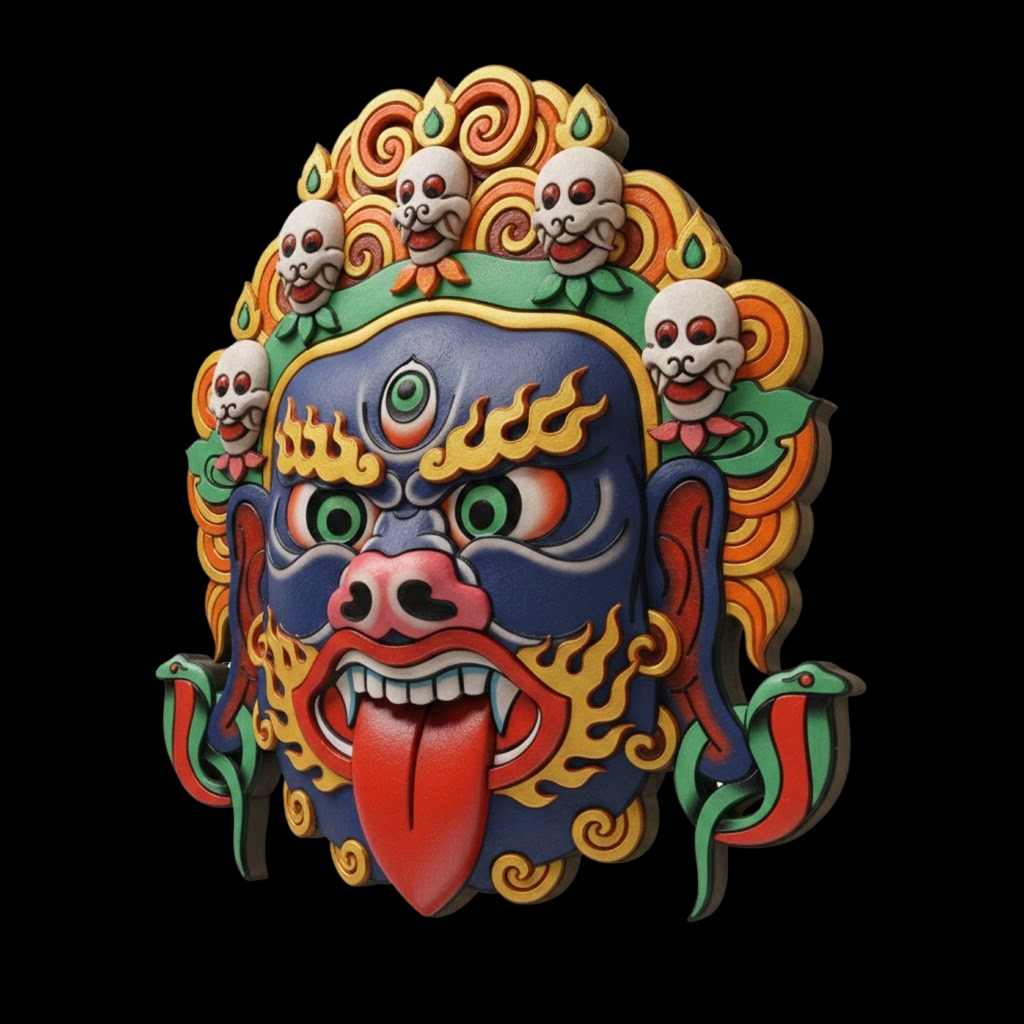
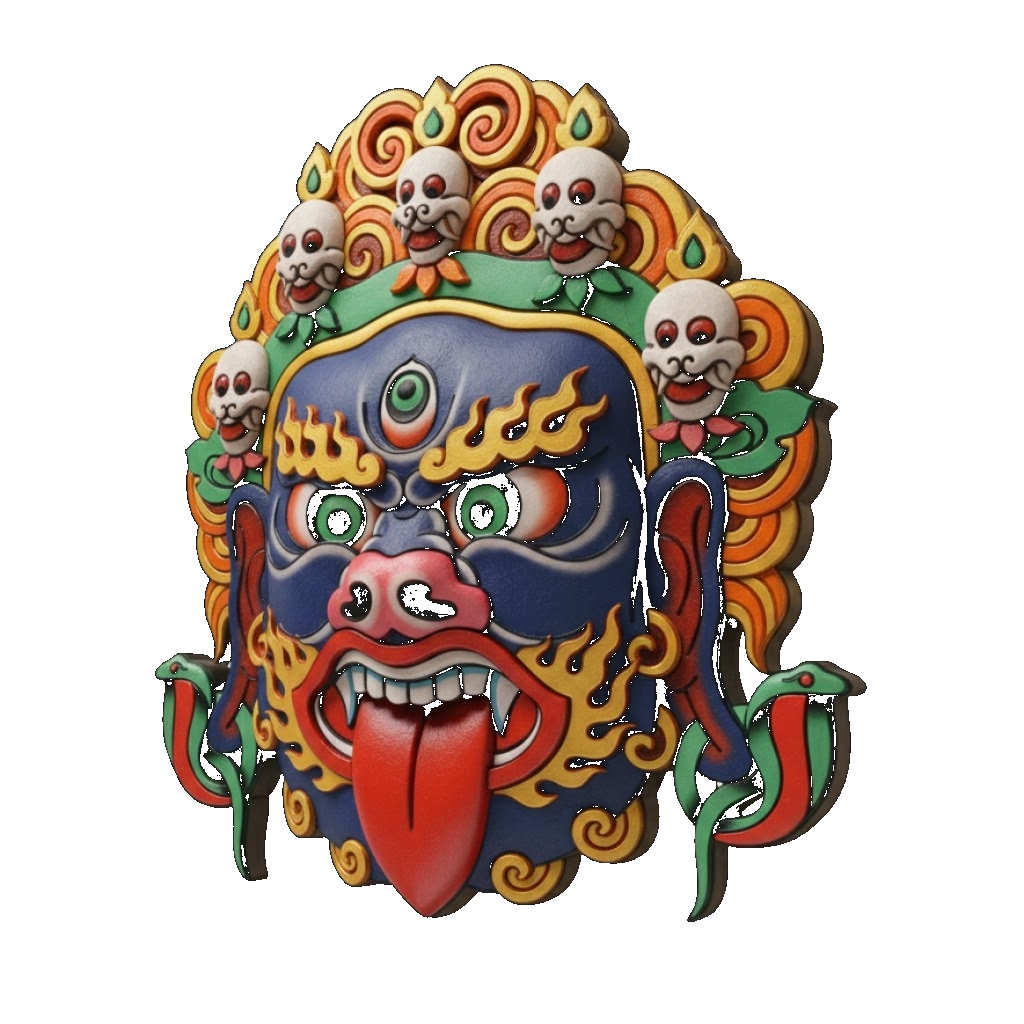
Replace 2 assets with transparent background and switch lightbox to 3D coverflow

diff --git a/js/ai-assets.js b/js/ai-assets.js
@@ -246,23 +246,17 @@ function initInfiniteCanvas() {
     // === LIGHTBOX LOGIC ===
     const lightbox = document.createElement('div');
     lightbox.className = 'lightbox';
-    // We create a slider track that holds exactly 3 images at all times (prev, current, next)
+    // Coverflow UI with 5 elements total for smooth coming-in and fading-out
     lightbox.innerHTML = `
         <div class="lightbox-close">&times;</div>
         <div class="lightbox-container">
             <div class="lightbox-arrow lightbox-prev">&#10094;</div>
-            <div class="lightbox-slider-wrapper">
-                <div class="lightbox-slider-track">
-                    <div class="lightbox-slide clone-left">
-                        <img src="" class="lightbox-img-left" alt="Previous">
-                    </div>
-                    <div class="lightbox-slide slide-main">
-                        <img src="" class="lightbox-img-main" alt="Current">
-                    </div>
-                    <div class="lightbox-slide clone-right">
-                        <img src="" class="lightbox-img-right" alt="Next">
-                    </div>
-                </div>
+            <div class="lightbox-gallery">
+                <img src="" class="gallery-item" id="gallery-prev2" alt="Hidden Left">
+                <img src="" class="gallery-item" id="gallery-prev" alt="Previous">
+                <img src="" class="gallery-item" id="gallery-main" alt="Current">
+                <img src="" class="gallery-item" id="gallery-next" alt="Next">
+                <img src="" class="gallery-item" id="gallery-next2" alt="Hidden Right">
             </div>
             <div class="lightbox-arrow lightbox-next">&#10095;</div>
         </div>
@@ -271,6 +265,15 @@ function initInfiniteCanvas() {
 
     let activeLightboxIndex = 0;
     let lightboxTimer = null;
+
+    // Grab the 5 physical image nodes from DOM
+    let galleryItems = [
+        lightbox.querySelector('#gallery-prev2'),
+        lightbox.querySelector('#gallery-prev'),
+        lightbox.querySelector('#gallery-main'),
+        lightbox.querySelector('#gallery-next'),
+        lightbox.querySelector('#gallery-next2')
+    ];
 
     const resetTimer = () => {
         clearInterval(lightboxTimer);
@@ -285,44 +288,55 @@ function initInfiniteCanvas() {
         clearInterval(lightboxTimer);
     };
 
-    const track = lightbox.querySelector('.lightbox-slider-track');
-    let isSliding = false;
-
-    // Set initial track position
-    track.style.transform = 'translateX(-33.333%)';
-
     const renderLightboxImages = (index) => {
-        let prevIndex = (index - 1 + assets.length) % assets.length;
-        let nextIndex = (index + 1) % assets.length;
-
-        lightbox.querySelector('.lightbox-img-left').src = assets[prevIndex];
-        lightbox.querySelector('.lightbox-img-main').src = assets[index];
-        lightbox.querySelector('.lightbox-img-right').src = assets[nextIndex];
-
+        const len = assets.length;
+        galleryItems[0].src = assets[(index - 2 + len) % len];
+        galleryItems[1].src = assets[(index - 1 + len) % len];
+        galleryItems[2].src = assets[index];
+        galleryItems[3].src = assets[(index + 1) % len];
+        galleryItems[4].src = assets[(index + 2) % len];
         activeLightboxIndex = index;
-
-        // Ensure track is in center without animation
-        track.style.transition = 'none';
-        track.style.transform = 'translateX(-33.333%)';
     };
 
     const slideTo = (direction) => {
-        if (isSliding || assets.length === 0) return;
-        isSliding = true;
+        if (assets.length === 0) return;
+        const len = assets.length;
 
         const newIndex = direction === 'next'
-            ? (activeLightboxIndex + 1) % assets.length
-            : (activeLightboxIndex - 1 + assets.length) % assets.length;
+            ? (activeLightboxIndex + 1) % len
+            : (activeLightboxIndex - 1 + len) % len;
 
-        // Slide the track
-        track.style.transition = 'transform 0.6s cubic-bezier(0.25, 1, 0.5, 1)';
-        track.style.transform = direction === 'next' ? 'translateX(-66.666%)' : 'translateX(0%)';
+        // Cyclically shift the DOM elements array depending on direction
+        if (direction === 'next') {
+            let first = galleryItems.shift();
+            galleryItems.push(first);
+        } else {
+            let last = galleryItems.pop();
+            galleryItems.unshift(last);
+        }
 
-        // Wait for animation, then swap images instantly and snap back
-        setTimeout(() => {
-            renderLightboxImages(newIndex);
-            isSliding = false;
-        }, 600); // match CSS transition duration
+        // Re-assign CSS IDs to their new positions to physically trigger the 3D transitions
+        const ids = ['gallery-prev2', 'gallery-prev', 'gallery-main', 'gallery-next', 'gallery-next2'];
+        galleryItems.forEach((item, i) => {
+            item.id = ids[i];
+
+            // Re-assign click events correctly based on their current visible role
+            item.onclick = null; // reset
+            if (ids[i] === 'gallery-prev') {
+                item.onclick = () => { slideTo('prev'); resetTimer(); };
+            } else if (ids[i] === 'gallery-next') {
+                item.onclick = () => { slideTo('next'); resetTimer(); };
+            }
+        });
+
+        // Now populate the image srcs correctly so they are ready before they slide in
+        galleryItems[0].src = assets[(newIndex - 2 + len) % len];
+        galleryItems[1].src = assets[(newIndex - 1 + len) % len];
+        galleryItems[2].src = assets[newIndex];
+        galleryItems[3].src = assets[(newIndex + 1) % len];
+        galleryItems[4].src = assets[(newIndex + 2) % len];
+
+        activeLightboxIndex = newIndex;
     };
 
     lightbox.querySelector('.lightbox-close').addEventListener('click', () => {
@@ -340,15 +354,9 @@ function initInfiniteCanvas() {
         resetTimer();
     });
 
-    lightbox.querySelector('.clone-left').addEventListener('click', () => {
-        slideTo('prev');
-        resetTimer();
-    });
-
-    lightbox.querySelector('.clone-right').addEventListener('click', () => {
-        slideTo('next');
-        resetTimer();
-    });
+    // Initial click assignments for the side clones
+    galleryItems[1].onclick = () => { slideTo('prev'); resetTimer(); };
+    galleryItems[3].onclick = () => { slideTo('next'); resetTimer(); };
 
     // Keyboard support
     window.addEventListener('keydown', (e) => {

diff --git a/styles/ai-assets.css b/styles/ai-assets.css
@@ -190,84 +190,82 @@ body.assets-body {
   transform: scale(1.1);
 }
 
-/* Slider Layout */
-.lightbox-slider-wrapper {
-  overflow: hidden;
+/* Coverflow Layout */
+.lightbox-gallery {
+  position: relative;
   width: 100vw;
   max-width: 1200px;
   height: 60vh;
-  position: relative;
   display: flex;
   justify-content: center;
   align-items: center;
+  perspective: 1200px;
+  overflow: hidden;
 }
 
-.lightbox-slider-track {
-  display: flex;
-  width: 300%;
-  /* 3 slides */
-  height: 100%;
-  align-items: center;
-  will-change: transform;
+.gallery-item {
+  position: absolute;
+  width: 350px;
+  height: 350px;
+  object-fit: contain;
+  transition: transform 0.6s cubic-bezier(0.2, 0.8, 0.2, 1), opacity 0.6s ease, filter 0.6s ease;
+  will-change: transform, opacity;
+  cursor: pointer;
 }
 
-.lightbox-slide {
-  width: 33.333%;
-  height: 100%;
-  display: flex;
-  justify-content: center;
-  align-items: center;
-  flex-shrink: 0;
-  transition: opacity 0.3s ease, transform 0.3s ease;
+#gallery-prev2 {
+  transform: translateX(-150%) scale(0.4) rotateY(30deg);
+  opacity: 0;
+  z-index: 1;
+  pointer-events: none;
 }
 
-.slide-main {
-  transform: scale(1);
+#gallery-prev {
+  transform: translateX(-80%) scale(0.65) rotateY(15deg);
+  opacity: 0.5;
   z-index: 2;
 }
 
-.clone-left,
-.clone-right {
-  transform: scale(0.6);
-  opacity: 0.4;
-  cursor: pointer;
-  z-index: 1;
-}
-
-.clone-left:hover,
-.clone-right:hover {
-  opacity: 0.8;
-  transform: scale(0.65);
-}
-
-.lightbox-img-left,
-.lightbox-img-right {
-  max-width: 80%;
-  max-height: 80%;
-  object-fit: contain;
-}
-
-.lightbox-img-main {
-  width: 100%;
-  /* ensure main image is larger */
-  max-width: 450px;
-  max-height: 100%;
-  object-fit: contain;
-  filter: drop-shadow(0 30px 50px rgba(0, 0, 0, 0.4));
+#gallery-main {
+  transform: translateX(0) scale(1.3) translateY(-10px);
+  opacity: 1;
+  z-index: 5;
+  filter: drop-shadow(0 30px 50px rgba(0, 0, 0, 0.5));
+  cursor: default;
+  /* subtle float animation for the active center item */
   animation: float 6s ease-in-out infinite;
+}
+
+#gallery-next {
+  transform: translateX(80%) scale(0.65) rotateY(-15deg);
+  opacity: 0.5;
+  z-index: 2;
+}
+
+#gallery-next2 {
+  transform: translateX(150%) scale(0.4) rotateY(-30deg);
+  opacity: 0;
+  z-index: 1;
+  pointer-events: none;
+}
+
+#gallery-prev:hover,
+#gallery-next:hover {
+  opacity: 0.8;
+  filter: drop-shadow(0 15px 25px rgba(0, 0, 0, 0.2));
 }
 
 @keyframes float {
   0% {
-    transform: translateY(0px);
+    transform: translateX(0) scale(1.3) translateY(-10px);
   }
 
   50% {
-    transform: translateY(-15px);
+    transform: translateX(0) scale(1.3) translateY(-25px);
   }
 
   100% {
-    transform: translateY(0px);
+    transform: translateX(0) scale(1.3) translateY(-10px);
   }
 }
 
